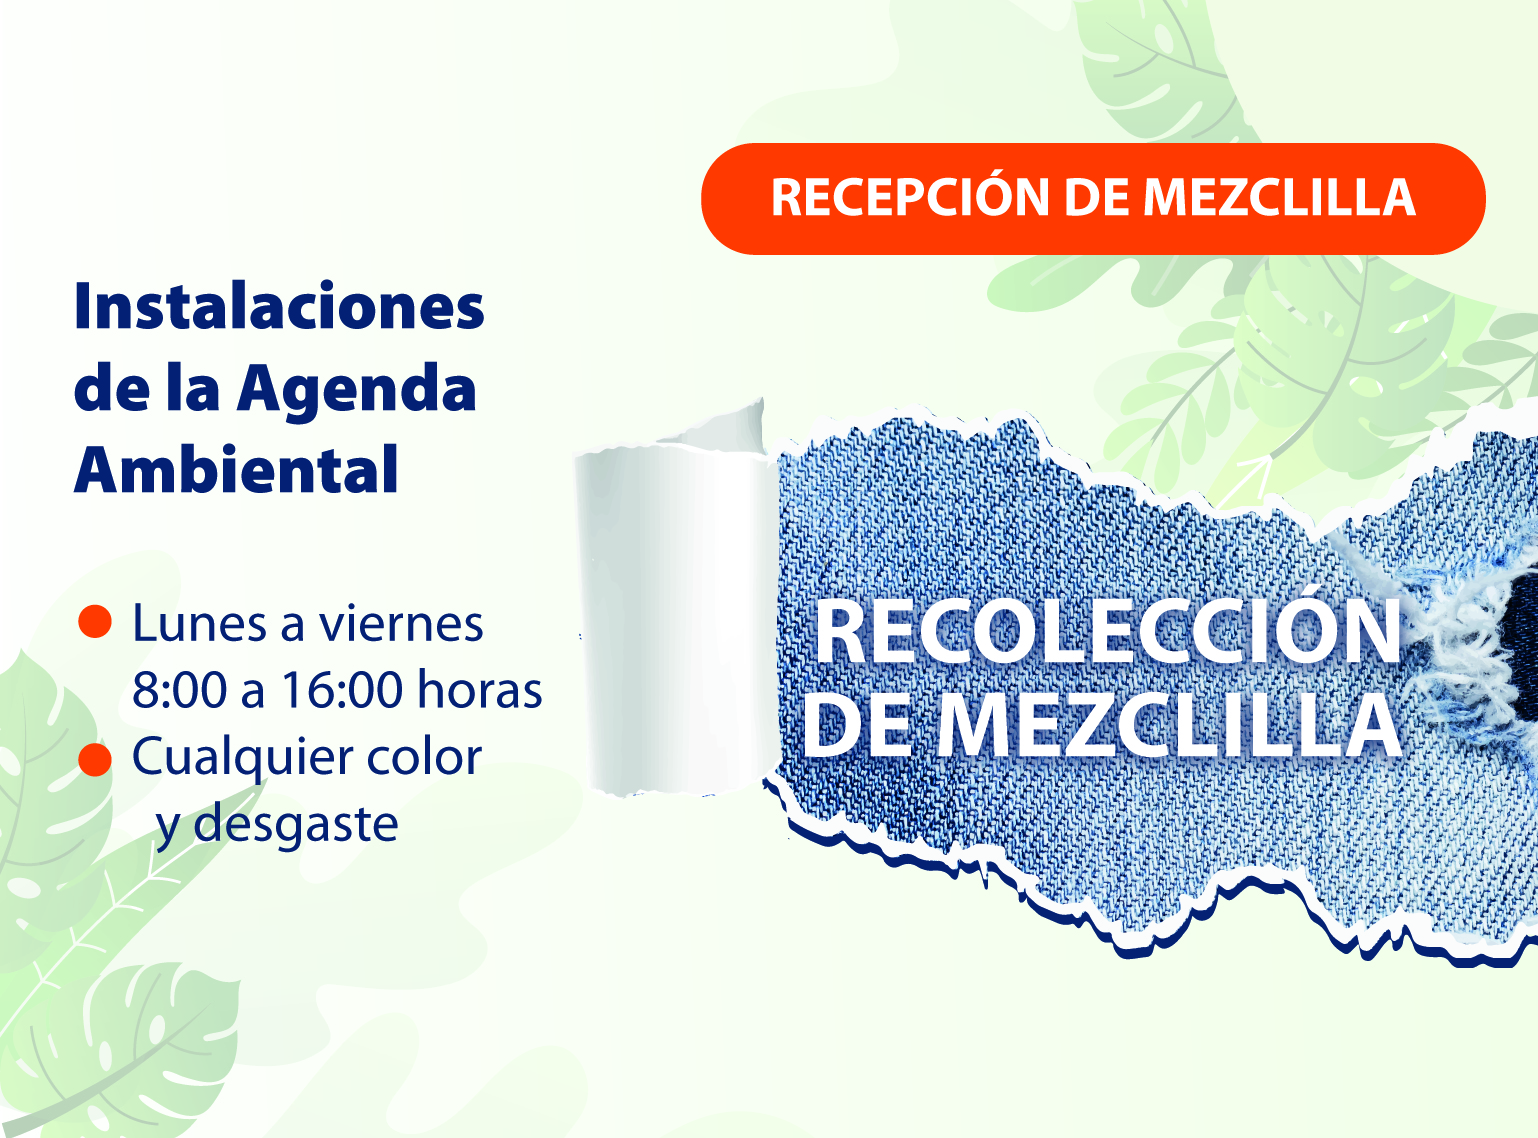
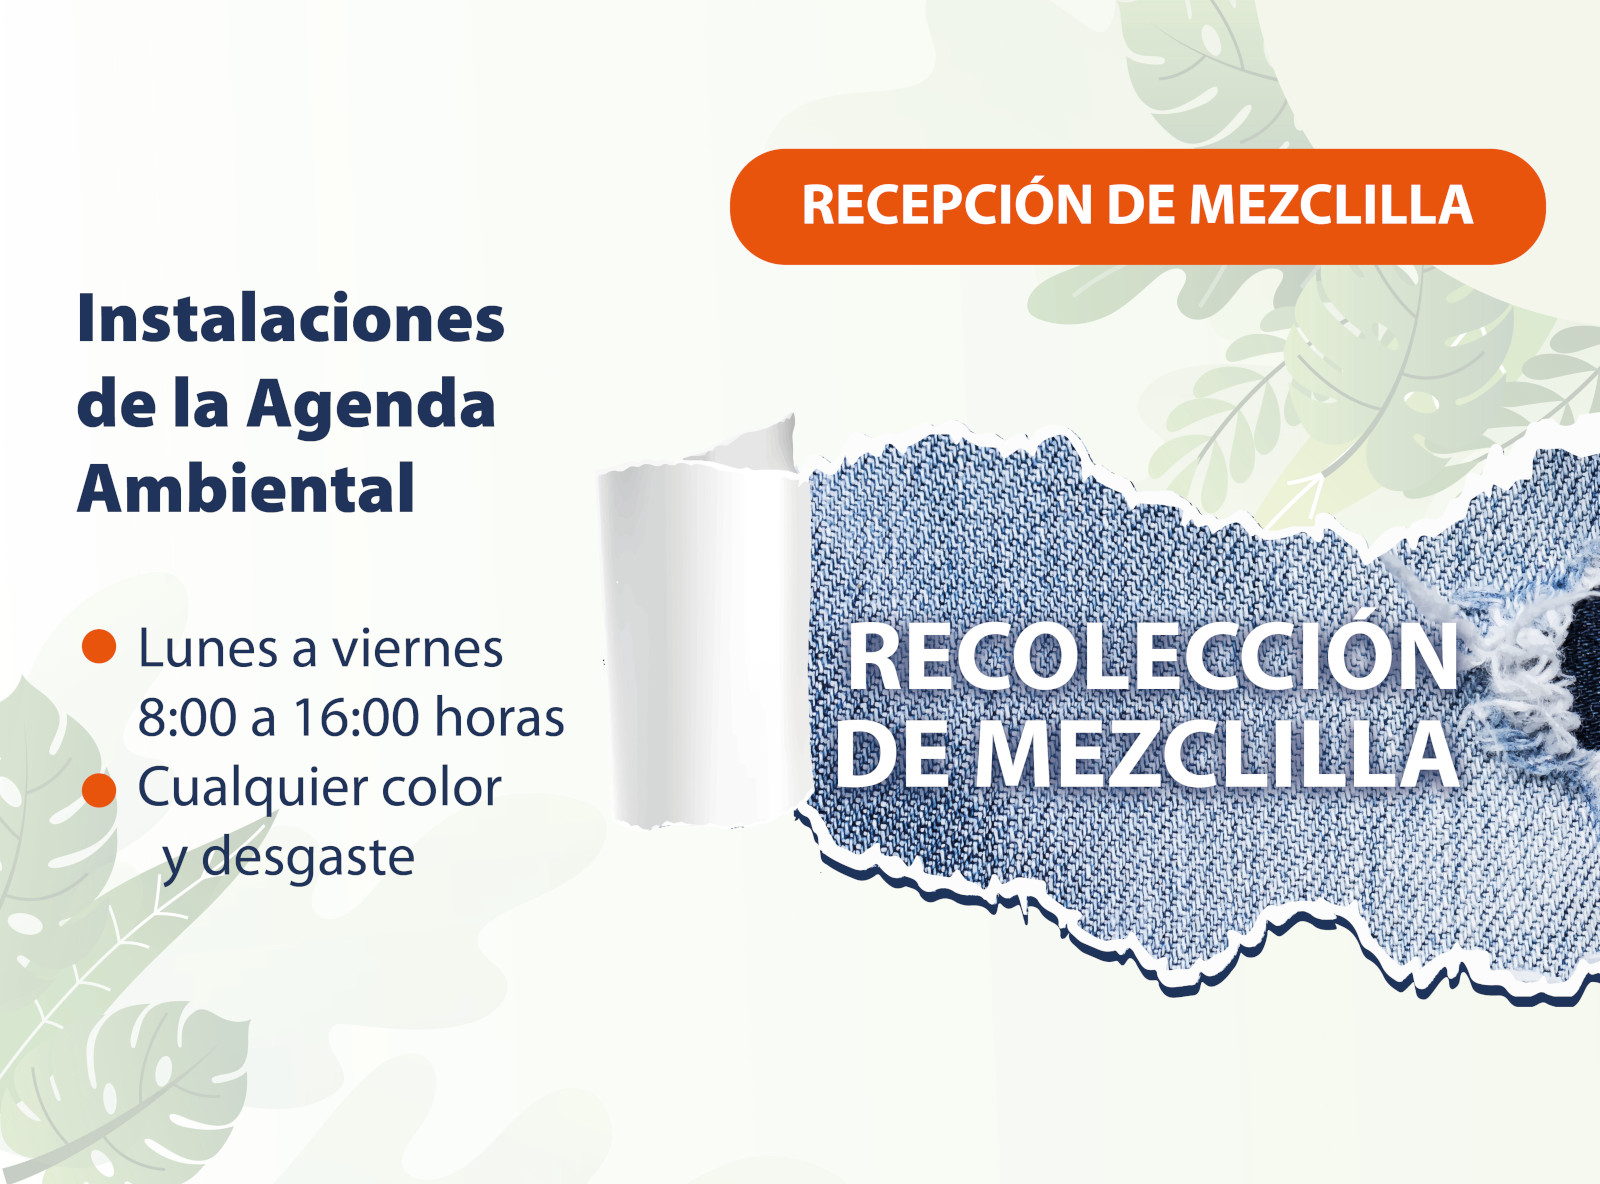
ECR cambios

diff --git a/resources/views/ConsumoResponsable/contenido.blade.php b/resources/views/ConsumoResponsable/contenido.blade.php
@@ -1,7 +1,7 @@
 @extends('Parciales.index')
 @section('TextImagen')
 <div class="col-xl-4 col-lg-4 col-md-12 align-content-center text-justify mt-5">
-    <img src="{{ asset('storage/imagenes/Logos/BannerSup_ECR2023_2.png') }}" class="img-fluid  w-75 pl-5" alt="" srcset="">
+    <img src="{{ asset('storage/imagenes/Logos/BannerSup_ECR2023_2.jpg') }}" class="img-fluid  w-75 pl-5" alt="" srcset="">
 </div>
 <div class="col-xl-8 col-lg-8 col-md-12 mb-5 mt-5">
     <p class="text-justify pSize">
@@ -186,7 +186,7 @@
                 <div class="container">
                     <div class="row justify-content-center">
                         <div class="col-12 col-xl-10 col-lg-10 col-md-10 col-sm-10 text-center ">
-                            <img src="{{asset('storage/imagenes/ConsumoResponsable/Cartel_ECR_Ago2023.png')}}"
+                            <img src="{{asset('storage/imagenes/ConsumoResponsable/Cartel_ECR_Ago2023.jpg')}}"
                                 class="img-fluid" alt="">
                         </div>
                     </div>
@@ -194,9 +194,9 @@
                         class="row justify-content-end justify-content-sm-end justify-content-md-center justify-content-lg-end justify-content-xl-end mt-2">
                         <br><br>
                         <div class=" col-6 col-xl-4 col-lg-4 col-md-6 col-sm-6 px-0 mr-4 ">
-                            <a href="{{asset('storage/imagenes/ConsumoResponsable/CartelECR_semestral2023_2.png')}}"
+                            <a href="{{asset('storage/imagenes/ConsumoResponsable/CartelECR_semestral2023_2.jpg')}}"
                                 class="btn btn-secondary bg-light  text-muted downloadBtn " href="#" role="button"
-                                download="CartelECR_semestral.png">CARTEL SEMESTRAL</a>
+                                download="CartelECR_semestral.jpg">CARTEL SEMESTRAL</a>
                         </div>
 
 

diff --git a/resources/views/Introduccion/vista.blade.php b/resources/views/Introduccion/vista.blade.php
@@ -61,10 +61,10 @@
           <div class="d-block">
             <div class="slide-box">
               <a href={{route('ConsumoResponsable',['nombreModal'=> 'CartelEspacioConsumo'])}}>
-                <img src="{{ asset('/storage/imagenes/ConsumoResponsable/B_ECR_Ago2023.png')}}" class="imgCaoursel " alt="First slide">
+                <img src="{{ asset('/storage/imagenes/ConsumoResponsable/B_ECR_Ago2023.jpg')}}" class="imgCaoursel " alt="First slide">
               </a>
               <a href={{route('ConsumoResponsable',['nombreModal'=> 'CartelEspacioConsumo'])}}>
-                <img src="{{ asset('/storage/imagenes/ConsumoResponsable/B_ECR_2023_2.png')}}" class="imgCaoursel " alt="First slide">
+                <img src="{{ asset('/storage/imagenes/ConsumoResponsable/B_ECR_2023_2.jpg')}}" class="imgCaoursel " alt="First slide">
               </a>
             </div>
           </div>
@@ -140,7 +140,7 @@
       <div class="carousel-item ">
         <div class="slide-box">
           <a href={{route('ConsumoResponsable',['nombreModal'=> 'CartelEspacioConsumo'])}}>
-            <img src="{{ asset('storage/imagenes/ConsumoResponsable/B_ECR_Ago2023.png')}}" class="imgCaoursel w-100 p-0 p-0 " alt="First slide">
+            <img src="{{ asset('storage/imagenes/ConsumoResponsable/B_ECR_Ago2023.jpg')}}" class="imgCaoursel w-100 p-0 p-0 " alt="First slide">
           </a>
         </div>
       </div>
